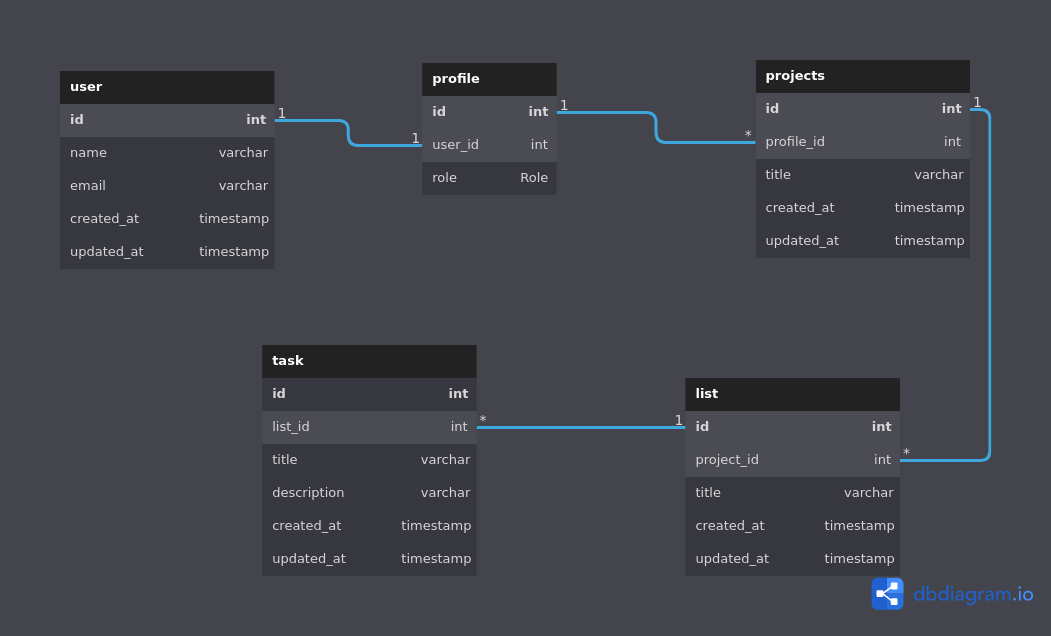
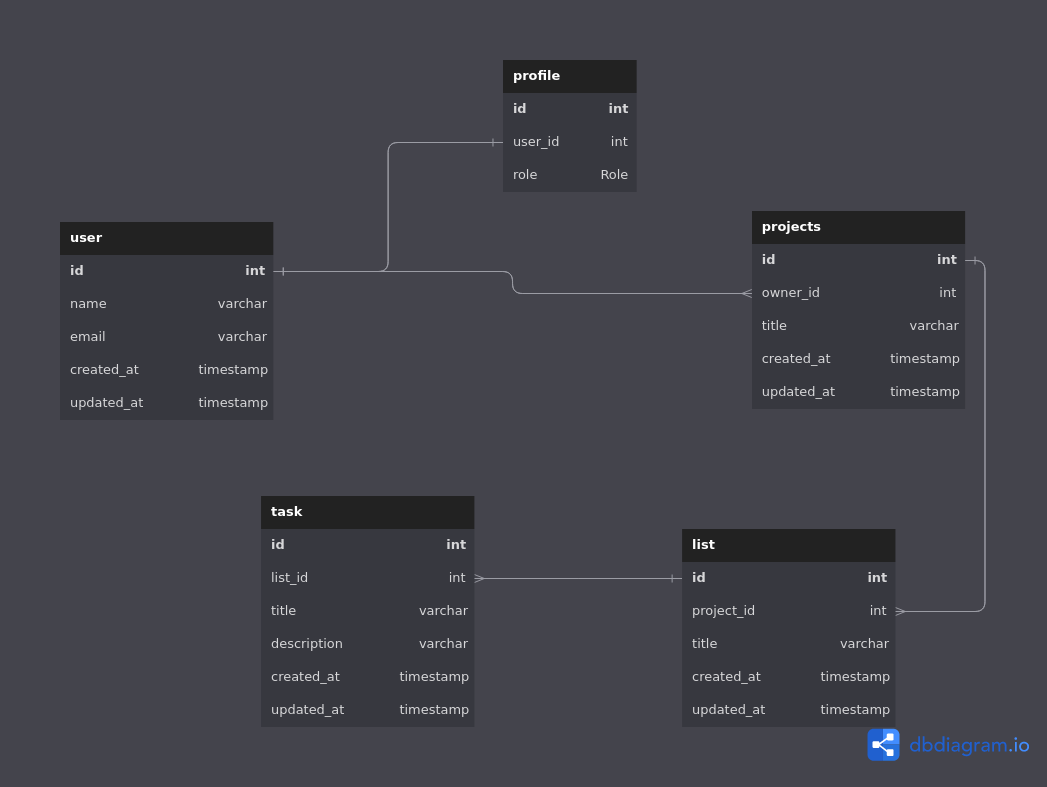
fix: updated project user relationship

diff --git a/server/projects/models.py b/server/projects/models.py
@@ -5,7 +5,7 @@ from typing import List
 from sqlmodel import Field, Relationship
 
 from db.base import BaseModel
-from user.models import Profile
+from user.models import User
 
 
 class TaskStatus(Enum):
@@ -15,16 +15,17 @@ class TaskStatus(Enum):
 
 class Project(BaseModel, table=True):
     title: str = Field(nullable=False, max_length=100)
-    profile_id: int = Field(default=None, foreign_key="profile.id")
+    description: str = Field(nullable=True, max_length=500)
+    owner_id: int = Field(default=None, foreign_key="user.id", nullable=False)
 
     # Relationships
-    profile: Profile = Relationship(back_populates="projects")
+    owner: User = Relationship(back_populates="projects")
     lists: List["TaskList"] = Relationship(back_populates="project")
 
 
 class TaskList(BaseModel, table=True):
     title: str = Field(nullable=False, default="No Title", max_length=50)
-    project_id: int = Field(default=None, foreign_key="project.id")
+    project_id: int = Field(default=None, foreign_key="project.id", nullable=False)
 
     # Relationships
     project: Project = Relationship(back_populates="lists")
@@ -40,5 +41,5 @@ class Task(BaseModel, table=True):
     completed_at: datetime = Field(nullable=True)
 
     # Relationships
-    tasklist_id: int = Field(default=None, foreign_key="tasklist.id")
+    tasklist_id: int = Field(default=None, foreign_key="tasklist.id", nullable=False)
     tasklist: TaskList = Relationship(back_populates="tasks")

diff --git a/server/user/models.py b/server/user/models.py
@@ -15,7 +15,10 @@ class User(BaseModel, table=True):
     # Datetime fields
     email_verified_at: datetime = Field(nullable=True)
 
-    profile: Optional["Profile"] = Relationship(back_populates="user")
+    profile: Optional["Profile"] = Relationship(
+        back_populates="user", sa_relationship_kwargs={"uselist": False}
+    )
+    projects: Optional[List["Project"]] = Relationship(back_populates="owner")
 
     def verify_password(self, password: str) -> bool:
         return bcrypt.verify(password, self.password_hash)
@@ -23,6 +26,4 @@ class User(BaseModel, table=True):
 
 class Profile(BaseModel, table=True):
     user_id: int = Field(default=None, foreign_key="user.id")
-
     user: User = Relationship(back_populates="profile")
-    projects: List["Project"] = Relationship(back_populates="profile")
